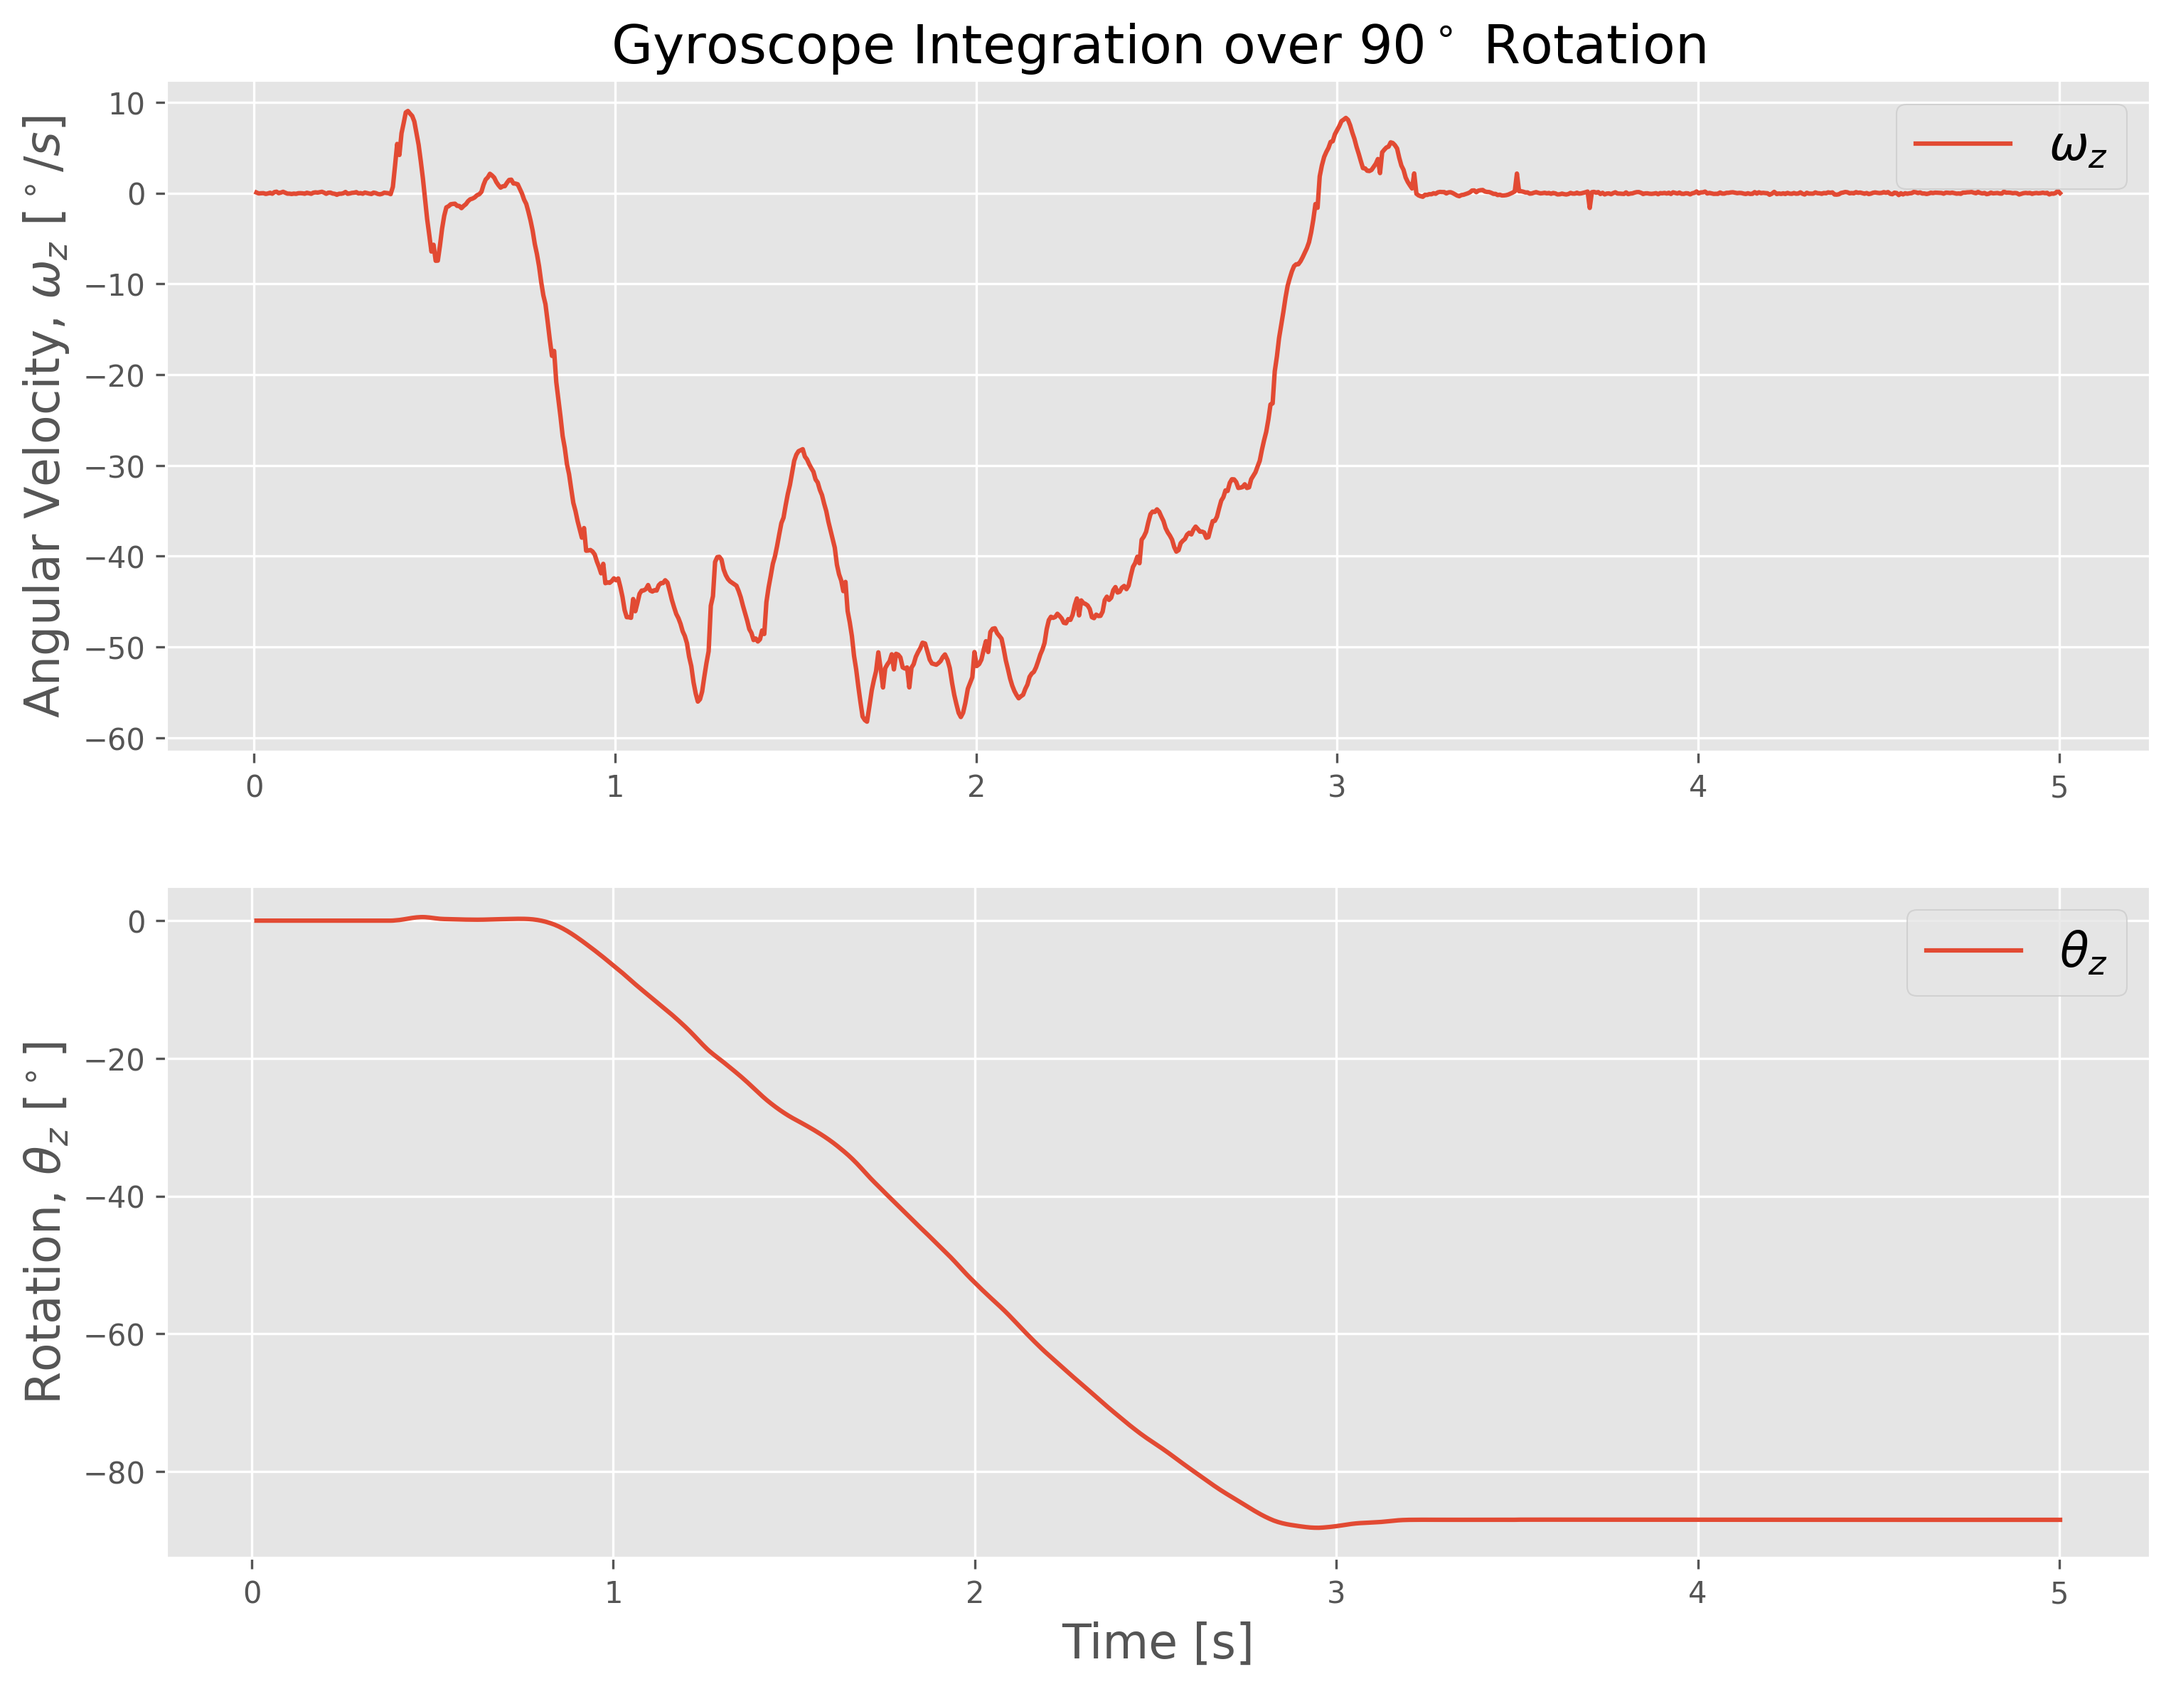
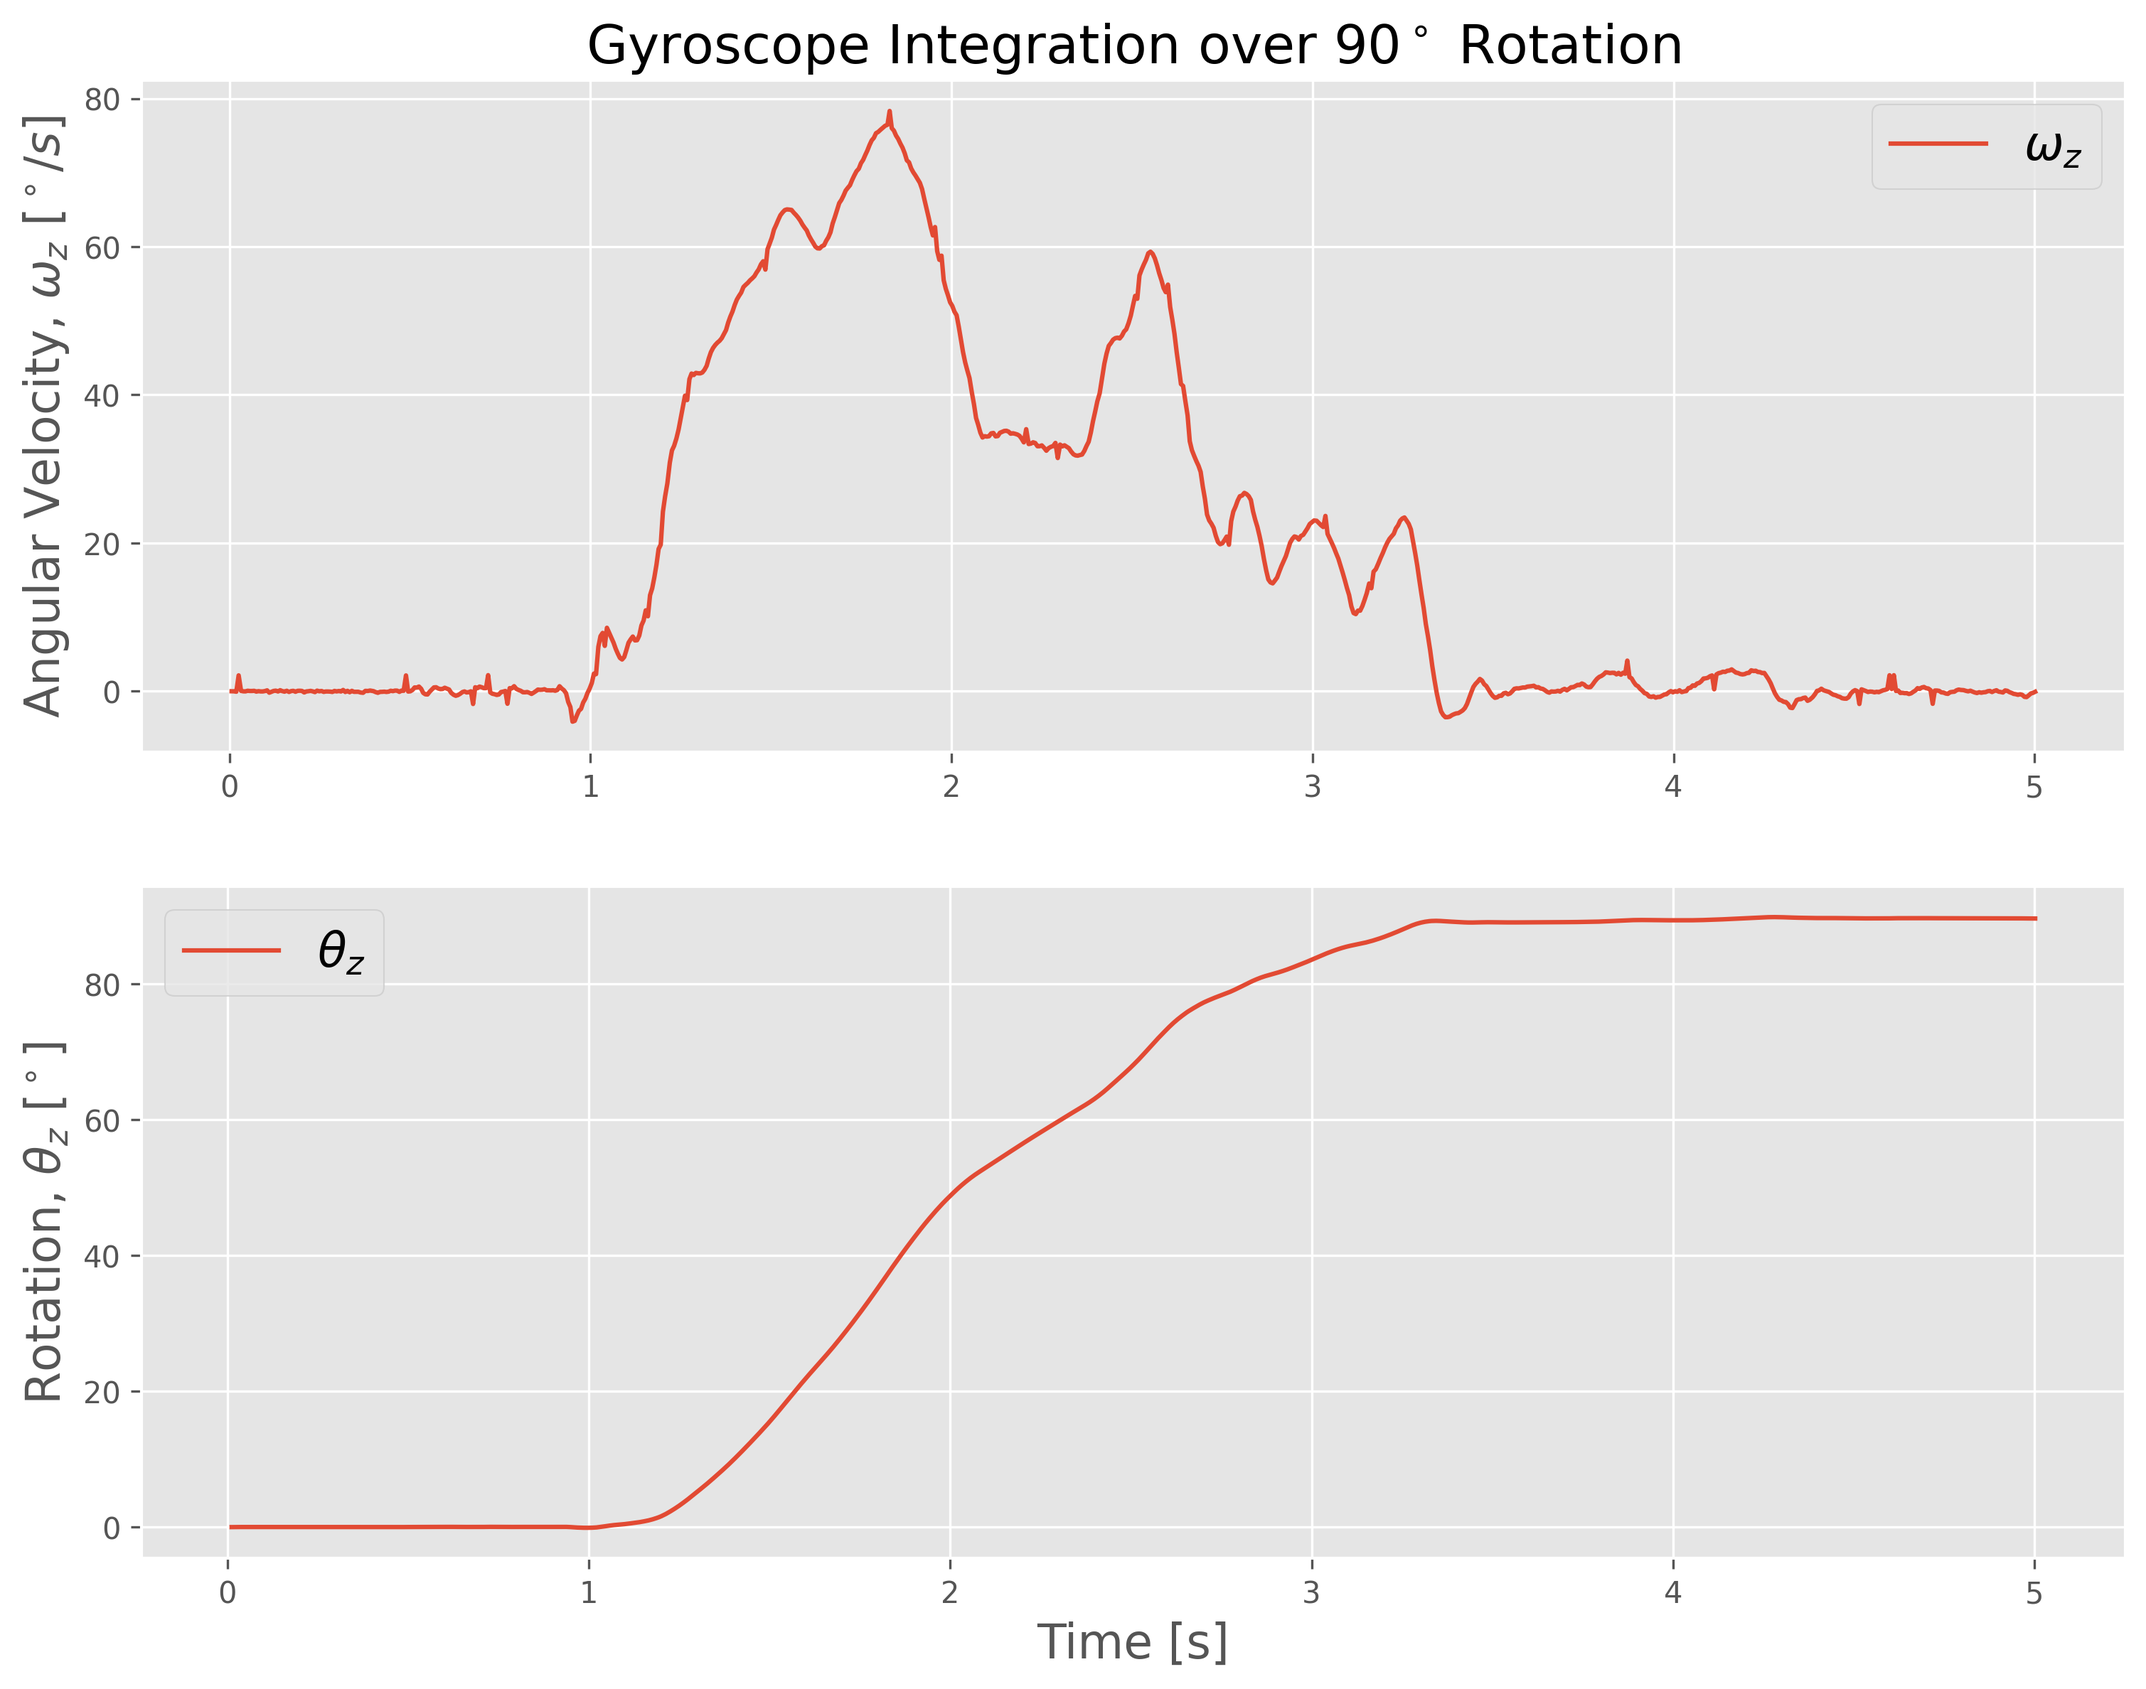
fixed gyro turn, sw_test done

diff --git a/Path/env_rl.py b/Path/env_rl.py
@@ -50,6 +50,10 @@ def turn_required(action, current_facing, gyro_offsets):
             current_facing = reqd_facing
     return current_facing   
 
+def check_if_object(frame):
+    area = int((1 - 2*roi_val) * height * (1 - 2*roi_val) * width)
+    pixels = int(np.sum(frame[ROI[0][1]:ROI[1][1], ROI[0][0]:ROI[1][0], 0]) / 255)
+    return pixels > (area * alert_thresh)
 
 def is_obstacle():
     global threshold
@@ -64,8 +68,8 @@ def is_obstacle():
     is_obj = check_if_object(depth)
 
 def create_obs(self,next_state):
-    pos = obs_pos[next_state[0] / pixels, next_state[1] / pixels] - 1
-    img = self.obstacle_object[pos]
+    # pos = obs_pos[next_state[0] / pixels, next_state[1] / pixels] - 1
+    img = self.obstacle_object[1]
     self.obstacle.append(self.canvas_widget.create_image(next_state[0], next_state[1], anchor='nw', image=img))
 
 
@@ -162,26 +166,30 @@ class Environment(tk.Tk, object):
         if action == 0:
             if state[1] >= pixels:
                 base_action[1] -= pixels
-                current_facing = turn_required(action, current_facing, gyro_offsets)
-                print("Turned " + actions[action])
+                # current_facing = turn_required(action, current_facing, gyro_offsets)
+                current_facing = action_angle[action]
+                input("Turned " + actions[action])
         # Action 'down'
         elif action == 1:
             if state[1] < (env_height - 1) * pixels:
                 base_action[1] += pixels
-                current_facing = turn_required(action, current_facing, gyro_offsets)
-                print("Turned " + actions[action])
+                # current_facing = turn_required(action, current_facing, gyro_offsets)
+                current_facing = action_angle[action]
+                input("Turned " + actions[action])
         # Action right
         elif action == 2:
             if state[0] < (env_width - 1) * pixels:
                 base_action[0] += pixels
-                current_facing = turn_required(action, current_facing, gyro_offsets)
-                print("Turned " + actions[action])
+                # current_facing = turn_required(action, current_facing, gyro_offsets)
+                current_facing = action_angle[action]
+                input("Turned " + actions[action])
         # Action left
         elif action == 3:
             if state[0] >= pixels:
                 base_action[0] -= pixels
-                current_facing = turn_required(action, current_facing, gyro_offsets)
-                print("Turned " + actions[action])
+                # current_facing = turn_required(action, current_facing, gyro_offsets)
+                current_facing = action_angle[action]
+                input("Turned " + actions[action])
                 
         # Moving the agent according to the action
         self.canvas_widget.move(self.agent, base_action[0], base_action[1])

diff --git a/Path/calibrated_movement.py b/Path/calibrated_movement.py
@@ -67,10 +67,7 @@ def left_mpu(gyro_offsets):
         left()
         data.append(get_gyro())
         t_vec.append(time.time()-t0)
-        if data != None:
-            data_offseted = np.array(data)[:,rot_axis]-gyro_offsets[rot_axis]
-        else:
-            data_offseted = data
+        data_offseted = np.array(data)[:,rot_axis]#-gyro_offsets[rot_axis]
         integ1_array = cumtrapz(data_offseted,x=t_vec) # integrate once in time
         try:
             angle = integ1_array[-1]
@@ -88,10 +85,7 @@ def right_mpu(gyro_offsets):
         right()
         data.append(get_gyro())
         t_vec.append(time.time()-t0)
-        if gyro_offsets != None:
-            data_offseted = np.array(data)[:,rot_axis]-gyro_offsets[rot_axis]
-        else:
-            data_offseted = data
+        data_offseted = np.array(data)[:,rot_axis]#-gyro_offsets[rot_axis]
         integ1_array = cumtrapz(data_offseted,x=t_vec) # integrate once in time
         try:
             angle = integ1_array[-1]

diff --git a/calibrated_movement.py b/calibrated_movement.py
@@ -65,7 +65,7 @@ def left_mpu(gyro_offsets):
         left()
         data.append(get_gyro())
         t_vec.append(time.time()-t0)
-        data_offseted = np.array(data)[:,rot_axis]-gyro_offsets[rot_axis]
+        data_offseted = np.array(data)[:,rot_axis]#-gyro_offsets[rot_axis]
         integ1_array = cumtrapz(data_offseted,x=t_vec) # integrate once in time
         try:
             angle = integ1_array[-1]
@@ -83,7 +83,7 @@ def right_mpu(gyro_offsets):
         right()
         data.append(get_gyro())
         t_vec.append(time.time()-t0)
-        data_offseted = np.array(data)[:,rot_axis]-gyro_offsets[rot_axis]
+        data_offseted = np.array(data)[:,rot_axis]#-gyro_offsets[rot_axis]
         integ1_array = cumtrapz(data_offseted,x=t_vec) # integrate once in time
         try:
             angle = integ1_array[-1]

diff --git a/Path/run_rl_agent.py b/Path/run_rl_agent.py
@@ -23,7 +23,7 @@ action_angle = [0, 180, 90, 270] # up, down, right, left
 actions = ['up', 'down', 'right', 'left']
 gyro_offsets = mpu_initialize()
 
-def turn_required(action, current_facing):
+def turn_required(action, current_facing, gyro_offsets):
     reqd_facing = action_angle[action]
     i = (current_facing - reqd_facing) / 90    
     if i == 0:
@@ -65,7 +65,7 @@ def update():
 
             # RL chooses action based on observation
             action = RL.choose_action(str(observation))
-            
+            print(actions[action])
                                     
             # RL takes an action and get the next observation and reward
             observation_, reward, done, current_facing = env.step(action, current_facing, gyro_offsets)
